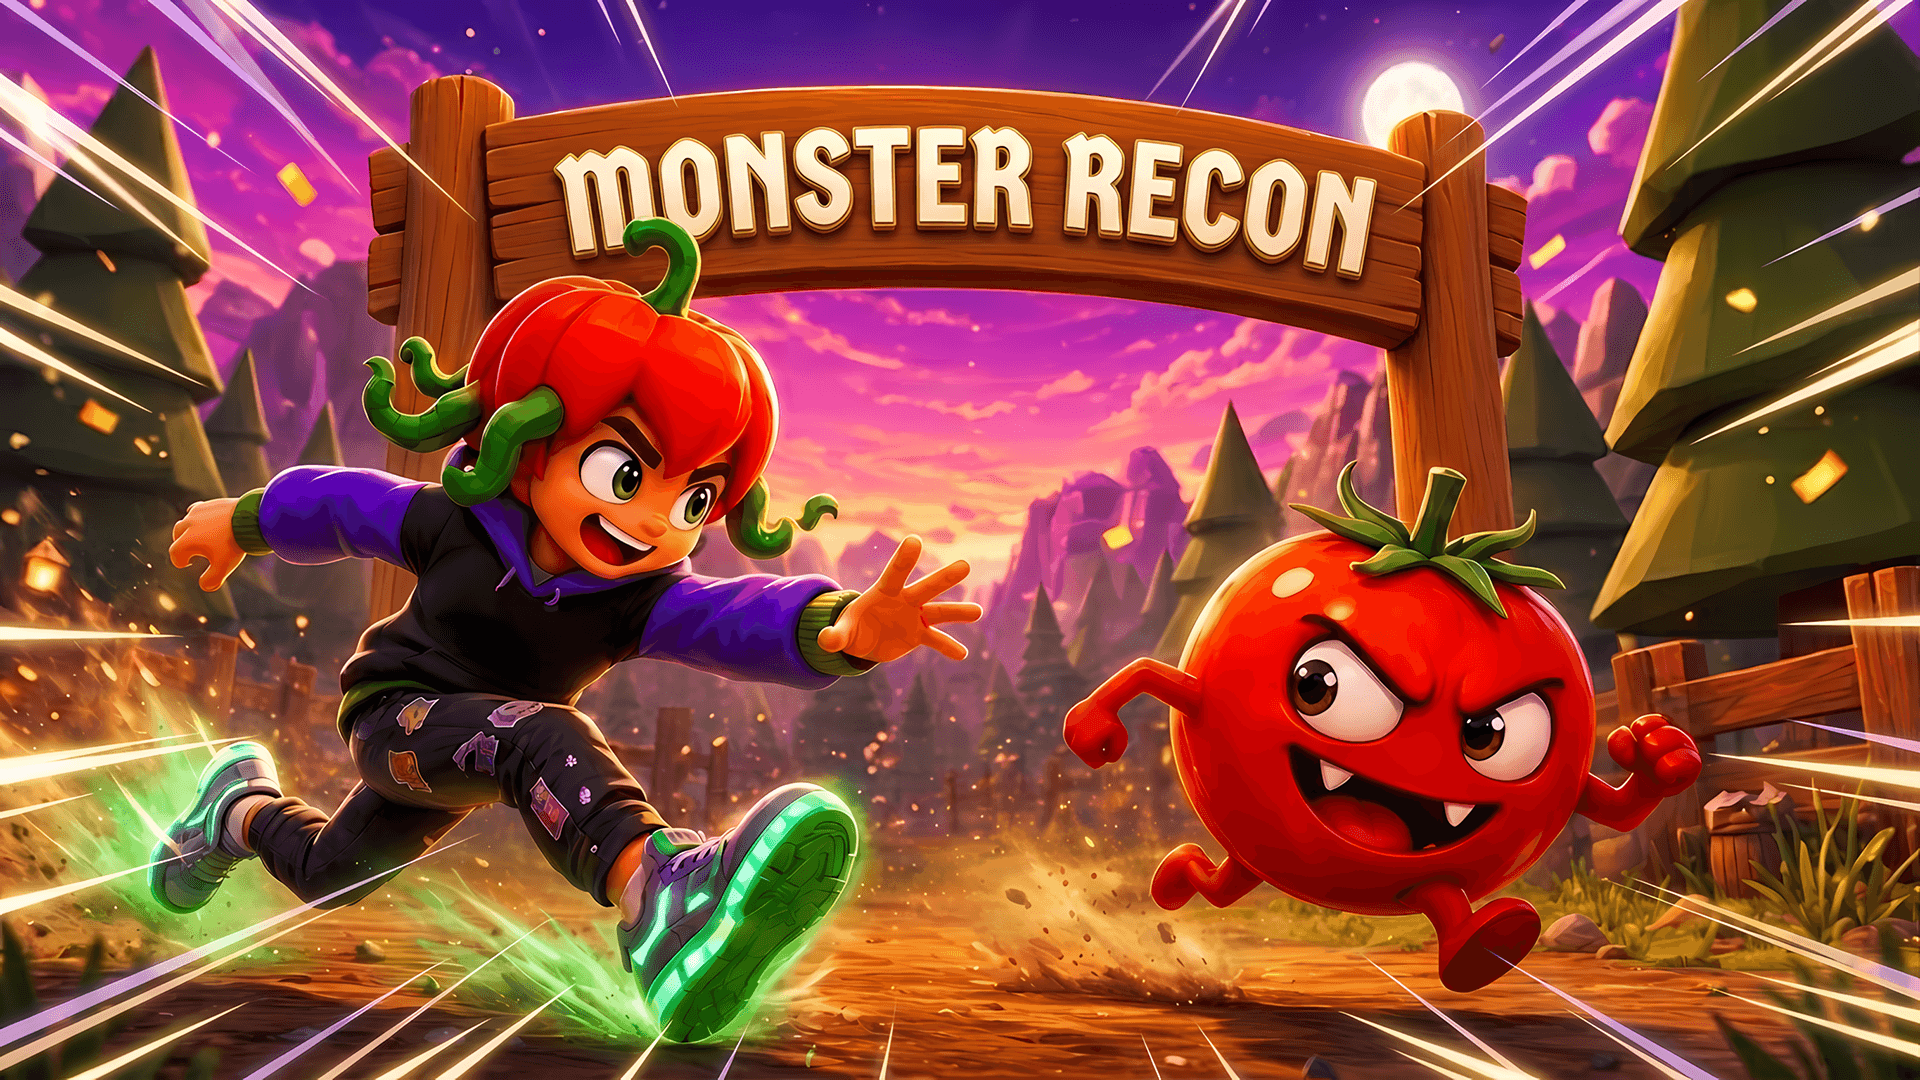
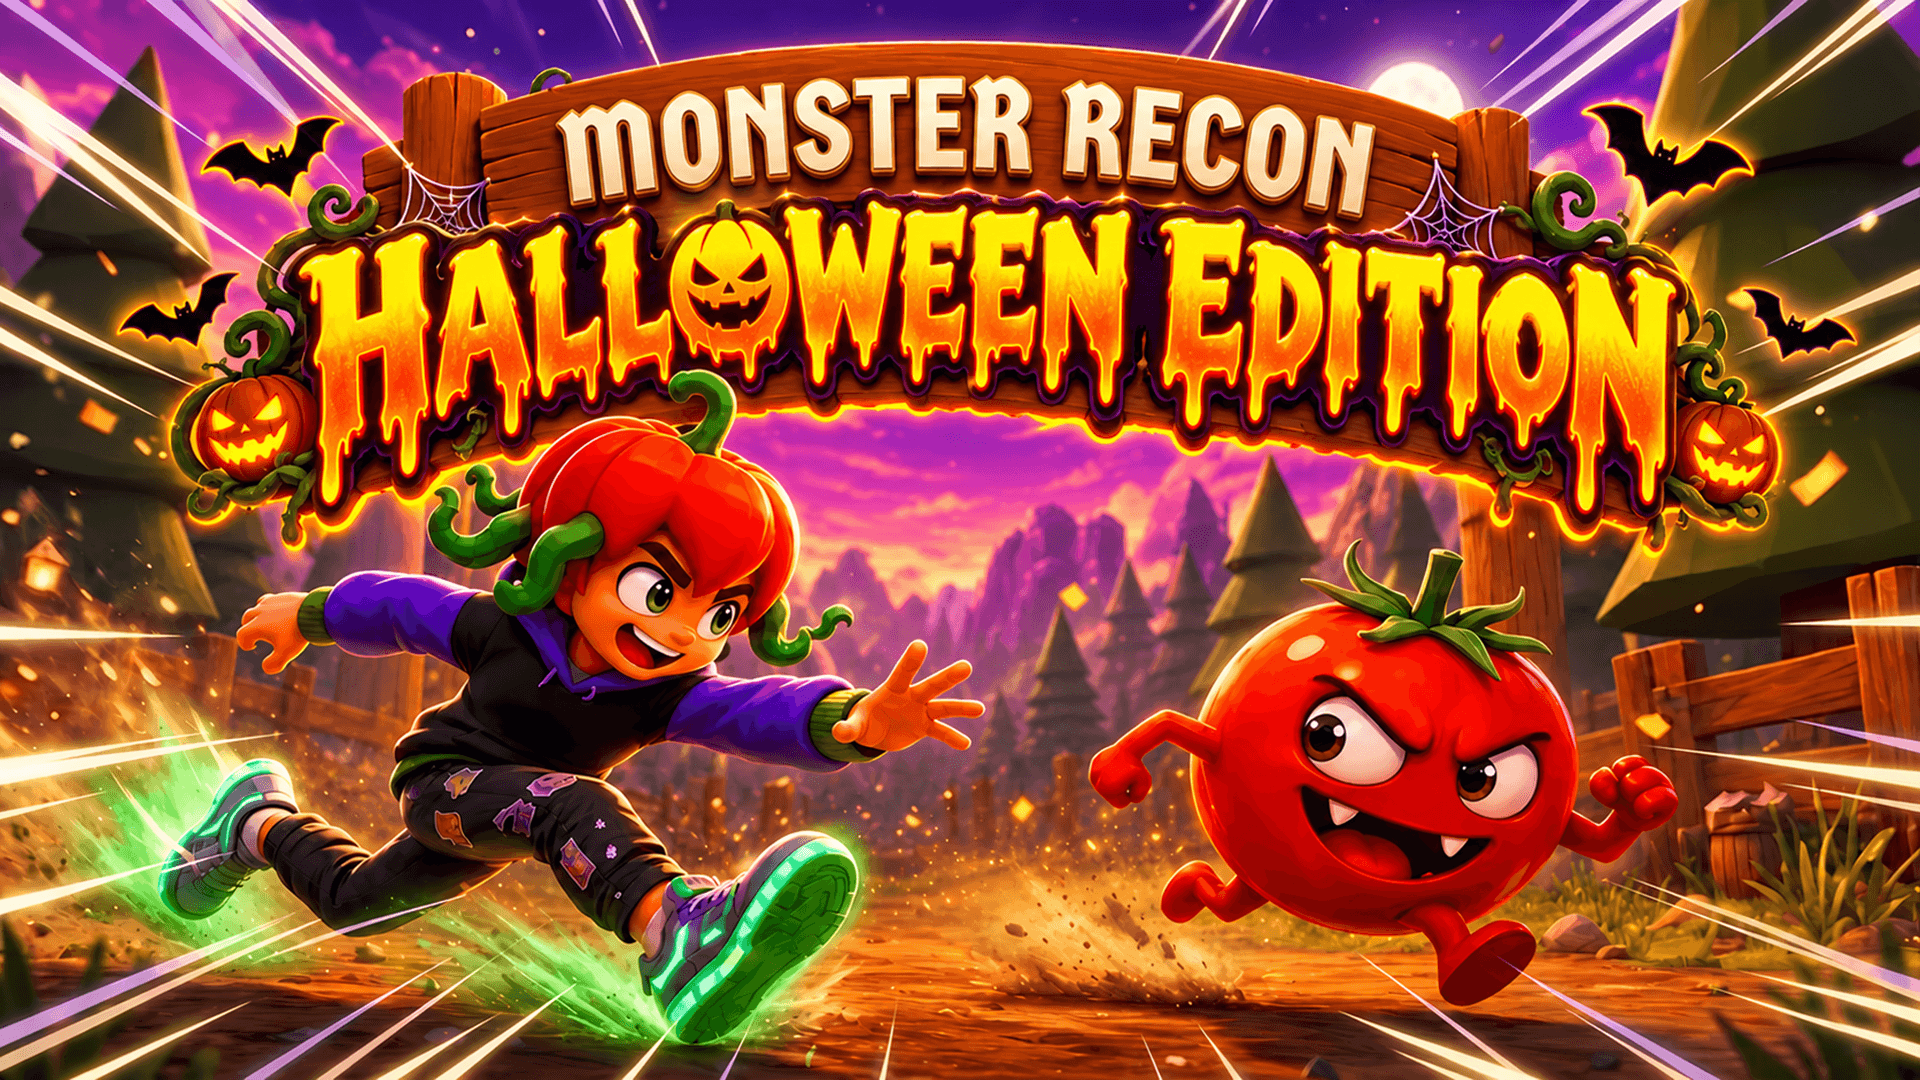
Update thumbnail and backups

diff --git a/src/debugFlags.ts b/src/debugFlags.ts
@@ -42,7 +42,7 @@ export const DEBUG_DUMP_BEST_TIMES = true
 // consolidate all leaderboard/progress/best-time data into one dated snapshot key (server ignores
 // the request unless the caller is OWNER_ADDRESS in server.ts). Flip to true, load the scene as the
 // owner wallet, check the console for the resulting key, then flip back to false.
-export const DEBUG_TRIGGER_BACKUP = false
+export const DEBUG_TRIGGER_BACKUP = true
 
 // TEMP (carlosmu.dcl.eth -> monsterrecon.dcl.eth migration): fires requestRestore once on scene
 // load, which asks the server to replay migrationSnapshot.json into this world's storage (server

diff --git a/src/splash.tsx b/src/splash.tsx
@@ -3,7 +3,7 @@ import { Color4 } from '@dcl/sdk/math'
 import ReactEcs, { UiEntity } from '@dcl/sdk/react-ecs'
 
 // Full-screen image shown on scene start: holds fully opaque, then fades out and is removed.
-const SPLASH_IMAGE = 'assets/images/thumbnail-halloween.png'
+const SPLASH_IMAGE = 'assets/images/thumbnail.png'
 const SPLASH_HOLD_S = 2
 const SPLASH_FADE_S = 2
 
